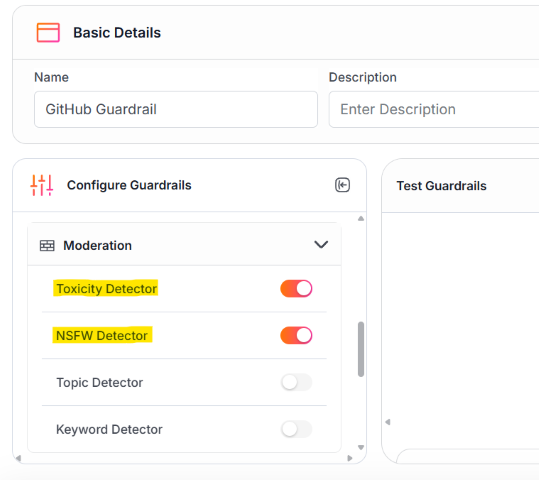
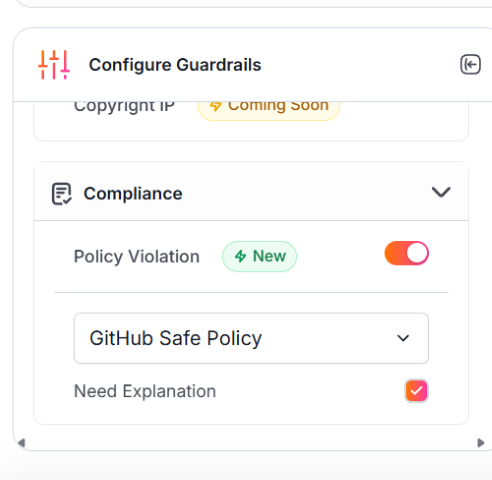
Github policy

diff --git a/README.md b/README.md
@@ -892,21 +892,136 @@ Installation complete. Check the claude_desktop_config.json file as per the read
 
 <br>
 
+- You can use a prompt to generate rules or generate a PDF file while you can then paste or upload while creating a policy in the App
+
+<br>
+
+<details>
+
+<summary><strong>Rules to copy ❗ </strong> 🔽</summary>
+
+<br>
+
+```text
+1. MCP-Specific Security Policies
+Scan all tool descriptions for hidden instructions/malicious patterns.
+
+Authenticate MCP servers with cryptographic verification.
+
+Lock and pin tool versions to prevent rug-pull attacks.
+
+Enforce isolation between MCP servers to avoid interference.
+
+Restrict GitHub MCP access to specific repositories and users.
+
+2. Code Filtering and Prohibited Patterns
+Block known malicious code patterns (e.g., buffer overflows, SQL injection).
+
+Detect malware signatures (e.g., keylogger, trojan).
+
+Prevent crypto mining code.
+
+Identify network attack patterns (e.g., DDoS, botnet).
+
+Block privilege escalation code (e.g., root exploits).
+
+3. Repository Access Control
+Enforce role-based read access for private repositories.
+
+Enable strict content filtering for all access types.
+
+Mandate audit logging for private repositories.
+
+Quarantine access to sensitive repositories.
+
+4. AI-Specific Guardrails
+Detect tool poisoning via hidden tags and file access commands.
+
+Monitor behavior for file access and network activity.
+
+Require explicit UI approval for suspicious tools.
+
+Protect against prompt injection in GitHub issues.
+
+Block PRs that expose private repo data.
+
+Quarantine suspicious GitHub issues.
+
+5. RADE (Retrieval-Agent Deception) Mitigation
+Scan retrieved content for embedded commands.
+
+Validate document integrity and modification timestamps.
+
+Sandbox retrieved content to prevent auto-execution.
+
+6. Input Validation
+Limit prompt length (max 4096 tokens).
+
+Block forbidden keywords (e.g., "ignore previous instructions").
+
+Detect encoded/injection patterns (base64, hex, unicode).
+
+7. Model Behavior Constraints
+Limit code generation by complexity and size.
+
+Restrict certain languages (e.g., shell scripts, assembly).
+
+Monitor API/system calls and network activity.
+
+Enforce strict context boundaries across repositories.
+```
+
+</details>
+
+<br>
+
+<details>
+
+<summary><strong>Prompt used to generate the rules 💡 </strong> 🔽</summary>
+
+<br>
+
+- `Give numbered list of security rules in plain text for configuring AI guardrails for a GitHub server on the rules and policies it needs to follow to prevent malicious use of the GitHub services`
+
+- Then say `Research latest GitHub MCP hacks and abuses people are trying and update the rules to prevent those. Keep research to the most severe topics`
+
+- Then say `Only keep essential security rules to reduce size. Remove unwanted sections like post incident, compliance, audit, etc which cannot be used while prevention`
+
+- Then you can copy paste the rules while creating the policy
+
+</details>
+
+<br>
+
 - Go to [Enkrypt App](https://app.enkryptai.com) and login with either OTP or Google or Microsoft account
 
-- Create on `Guardrails` as highlighted in the screenshot below
+- Click on `Policies`
 
-  ![enkrypt-app-homepage](./docs/images/enkrypt-app-homepage.png)
+  ![enkrypt-github-guardrail-1](./docs/images/enkrypt-github-guardrail-1.png)
+
+- Click on `Add new policy`
+
+  ![enkrypt-github-guardrail-2](./docs/images/enkrypt-github-guardrail-2.png)
+
+- Name it `GitHub Safe Policy` and paste the policy rules and click `Save`
+
+  ![enkrypt-github-guardrail-3](./docs/images/enkrypt-github-guardrail-3.png)
+
+- This is how a saved policy looks like with the rules applied for `Policy violation` Guardrails
+
+  ![enkrypt-github-guardrail-4](./docs/images/enkrypt-github-guardrail-4.png)
+
+- Now navigate back to home or hover over left sidebar and click `Guardrails`
 
 - Click on `Add New Guardrail` button on the top right
 
   ![enkrypt-app-add-guardrail-button](./docs/images/enkrypt-app-add-guardrail-button.png)
 
-- Name it `GitHub Guardrail`, leave `Injection Attack` toggled ON
+- Name it `GitHub Guardrail`, toggle `Injection Attack` OFF
 
   ![enkrypt-app-add-guardrail-add-1](./docs/images/enkrypt-app-add-guardrail-add-1.png)
 
-- Scroll down on `Configure Guardrails` side panel and toggle `Toxicity Detector` and `NSFW Detector` to ON as well
+- Scroll down on `Configure Guardrails` side panel and toggle `Policy Violation` ON, select the newly created policy and tick `Need Explanation` if needed
 
   ![enkrypt-app-add-guardrail-add-2](./docs/images/enkrypt-app-add-guardrail-add-2.png)
 
@@ -950,7 +1065,7 @@ Installation complete. Check the claude_desktop_config.json file as per the read
 
 - Add the API Key to the `common_mcp_gateway_config` section by replacing `YOUR_ENKRYPT_API_KEY` with the API Key you copied from the App
 
-- Inside the **`GitHub`** server block we added in the previous section and also in the pre-existing **`echo`** server blocks,
+- Inside the **`GitHub`** server block we added in the previous section,
 
   - Add the newly created Guardrail `GitHub Guardrail` to the `input_guardrails_policy` and `output_guardrails_policy` sections
 
@@ -986,8 +1101,8 @@ Installation complete. Check the claude_desktop_config.json file as per the read
             },
             "tools": {},
             "input_guardrails_policy": {
-              "enabled": true,
-              "policy_name": "GitHub Guardrail",
+              "enabled": false,
+              "policy_name": "Sample Airline Guardrail",
               "additional_config": {
                 "pii_redaction": false
               },
@@ -997,7 +1112,7 @@ Installation complete. Check the claude_desktop_config.json file as per the read
             },
             "output_guardrails_policy": {
               "enabled": false,
-              "policy_name": "GitHub Guardrail",
+              "policy_name": "Sample Airline Guardrail",
               "additional_config": {
                 "relevancy": false,
                 "hallucination": false,
@@ -1077,7 +1192,11 @@ Installation complete. Check the claude_desktop_config.json file as per the read
 
   ![claude-mcp-chat-github-guardrails-1](./docs/images/claude-mcp-chat-github-guardrails-1.png)
 
-- We can also test guardrails with the echo server by running `echo "hello; ls -la; whoami"`. This prompt which worked before is now blocked.
+- We can configure the test `echo` server with Guardrails of our choice and see the detections by running `echo "hello; ls -la; whoami"`.
+
+  - The below prompt which worked before but is blocked with Guardrails
+
+  - Experiment and try the `echo` server with various guardrails to see how it behaves. [You can also try our Playground for better testing](https://app.enkryptai.com/playground/guardrails).
 
   ![claude-mcp-chat-echo-guardrails-2](./docs/images/claude-mcp-chat-echo-guardrails-2.png)
 
